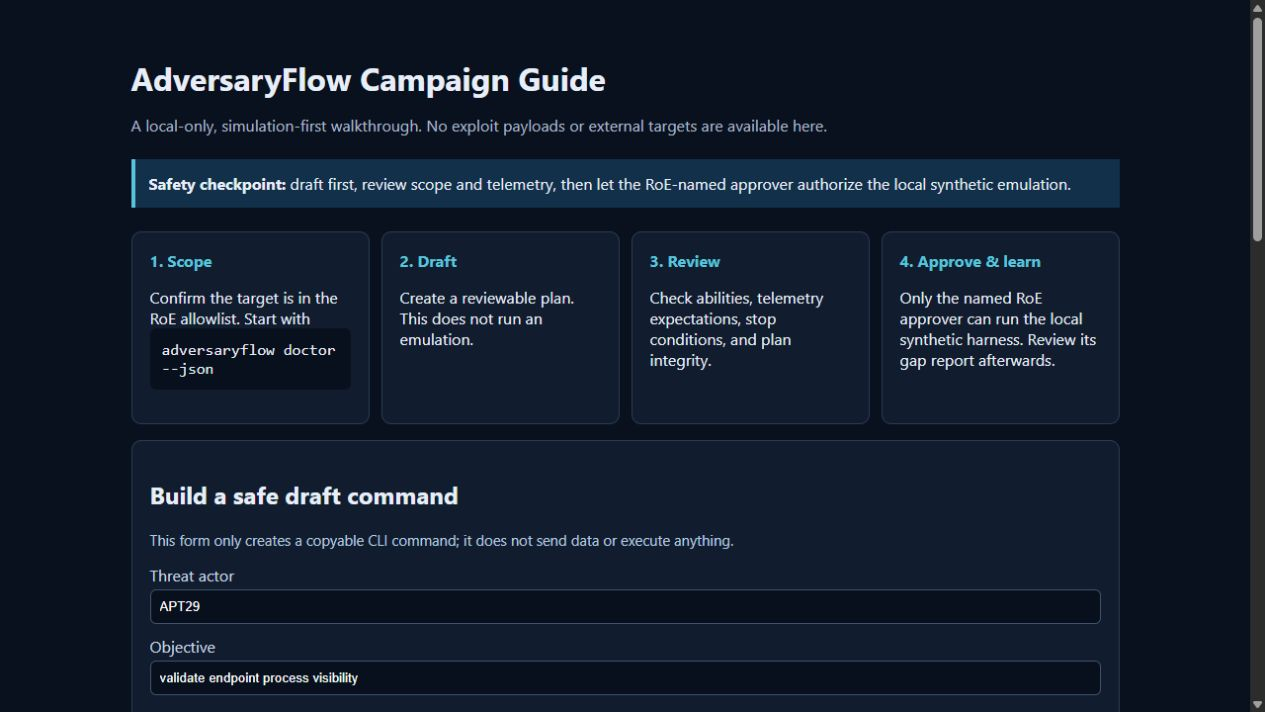
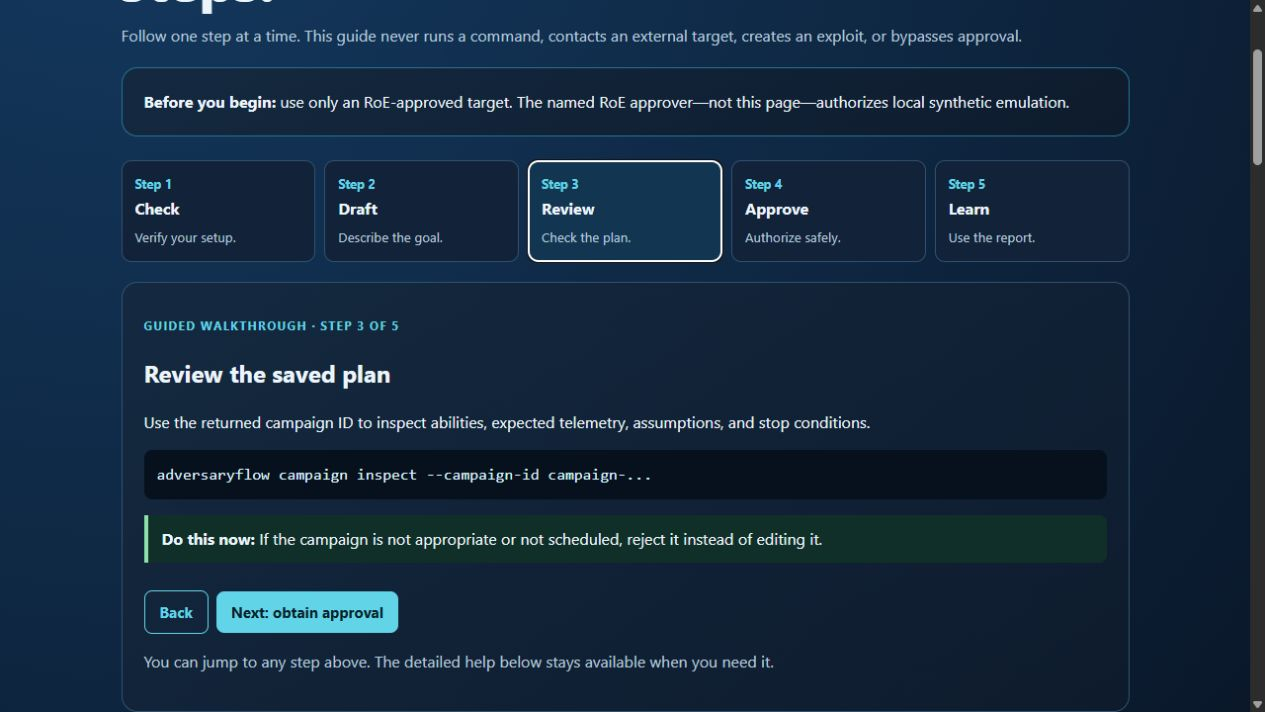
Add safe browser health check

diff --git a/src/adversaryflow/manager.py b/src/adversaryflow/manager.py
@@ -7,17 +7,27 @@ from http.server import BaseHTTPRequestHandler, ThreadingHTTPServer
 from pathlib import Path
 from urllib.parse import urlparse
 
+from .doctor import run_doctor
 from .lifecycle import inspect_campaign, list_campaigns
 
 
-PAGE = """<!doctype html><html lang="en"><head><meta charset="utf-8"><title>AdversaryFlow Campaign Guide</title>
-<style>body{margin:0;background:#09111e;color:#e8eef8;font:16px system-ui,sans-serif}main{max-width:1000px;margin:auto;padding:36px 20px}h1{margin-bottom:4px}.sub{color:#aab8cb}.banner{background:#12304a;border-left:4px solid #58c4dc;padding:14px;margin:24px 0}.steps{display:grid;grid-template-columns:repeat(auto-fit,minmax(210px,1fr));gap:12px}.card{background:#111d2e;border:1px solid #293b54;border-radius:10px;padding:18px}.num{color:#58c4dc;font-weight:bold}label{display:block;margin-top:12px;color:#c9d6e8}input{box-sizing:border-box;width:100%;padding:9px;margin-top:4px;background:#07101c;border:1px solid #40536c;border-radius:6px;color:#fff}button{margin-top:16px;background:#58c4dc;border:0;border-radius:6px;padding:10px 14px;font-weight:bold;cursor:pointer}code{display:block;white-space:pre-wrap;background:#07101c;padding:12px;border-radius:6px;overflow:auto}.help{color:#b6c8e0;font-size:.92rem}table{width:100%;border-collapse:collapse}th,td{text-align:left;padding:10px;border-bottom:1px solid #293b54}a{color:#75d9f1}</style></head><body><main>
-<h1>AdversaryFlow Campaign Guide</h1><p class="sub">A local-only, simulation-first walkthrough. No exploit payloads or external targets are available here.</p>
-<div class="banner"><strong>Safety checkpoint:</strong> draft first, review scope and telemetry, then let the RoE-named approver authorize the local synthetic emulation.</div>
-<section class="steps"><div class="card"><span class="num">1. Scope</span><p>Confirm the target is in the RoE allowlist. Start with <code>adversaryflow doctor --json</code></p></div><div class="card"><span class="num">2. Draft</span><p>Create a reviewable plan. This does not run an emulation.</p></div><div class="card"><span class="num">3. Review</span><p>Check abilities, telemetry expectations, stop conditions, and plan integrity.</p></div><div class="card"><span class="num">4. Approve & learn</span><p>Only the named RoE approver can run the local synthetic harness. Review its gap report afterwards.</p></div></section>
-<section class="card" style="margin-top:16px"><h2>Build a safe draft command</h2><p class="help">This form only creates a copyable CLI command; it does not send data or execute anything.</p><label>Threat actor<input id="actor" value="APT29"></label><label>Objective<input id="objective" value="validate endpoint process visibility"></label><label>Target<input id="target" value="local-lab"></label><button onclick="draft()">Create command</button><code id="command">Fill in the fields to generate a draft command.</code><button onclick="copyCommand()">Copy command</button><p class="help">After drafting, use the campaign ID shown by the CLI to inspect it here or resume it with <code>adversaryflow campaign --campaign-id campaign-... --approve --approver manager@example.test</code>.</p></section>
-<section class="card" style="margin-top:16px"><h2>Saved campaigns</h2><p class="help">Refreshes from this machine's configured campaign folder only.</p><button onclick="loadCampaigns()">Refresh campaigns</button><div id="campaigns">Loading…</div></section>
-</main><script>function q(id){return document.getElementById(id)}function draft(){q('command').textContent='adversaryflow campaign --actor "'+q('actor').value.replaceAll('"','')+'" --target "'+q('target').value.replaceAll('"','')+'" --objective "'+q('objective').value.replaceAll('"','')+'"'}function copyCommand(){navigator.clipboard.writeText(q('command').textContent)}async function loadCampaigns(){let r=await fetch('/api/campaigns'),d=await r.json();if(!d.campaigns.length){q('campaigns').textContent='No saved campaigns yet. Create a draft using the command above.';return}q('campaigns').innerHTML='<table><tr><th>ID</th><th>Status</th><th>Provider</th><th>Next step</th></tr>'+d.campaigns.map(c=>'<tr><td>'+c.campaign_id+'</td><td>'+c.status+'</td><td>'+c.provider+'</td><td>'+next(c)+'</td></tr>').join('')+'</table>'}function next(c){if(c.status==='awaiting-approval')return 'Review draft, then approve from the CLI.';if(c.status==='completed'){let link=c.report_url?'<a href="'+c.report_url+'">Open report</a> · ':'';return link+'Plan a retest from the detection gaps.'}return 'Inspect the recorded decision.'}loadCampaigns()</script></body></html>"""
+PAGE = """<!doctype html><html lang="en"><head><meta charset="utf-8"><meta name="viewport" content="width=device-width,initial-scale=1"><title>AdversaryFlow Campaign Guide</title><style>
+:root{color-scheme:dark;--bg:#08111f;--panel:#112239;--line:#31516e;--text:#edf5fc;--muted:#b8c9db;--accent:#62d4e8;--safe:#8de0ac}*{box-sizing:border-box}body{margin:0;background:radial-gradient(circle at 10% 0,#143a61 0,var(--bg) 40%);color:var(--text);font:16px/1.5 system-ui,sans-serif}main{max-width:1060px;margin:auto;padding:42px 20px 80px}h1{font-size:clamp(2.2rem,5vw,3.6rem);line-height:1.05;margin:.2rem 0}.eyebrow{color:var(--accent);font-weight:700;letter-spacing:.08em;text-transform:uppercase;font-size:.78rem}.lede,.muted{color:var(--muted)}.notice,.card{background:linear-gradient(145deg,#142940,#0e1b2d);border:1px solid var(--line);border-radius:16px;padding:22px;margin-top:20px}.notice{border-color:#277291}.journey{display:grid;grid-template-columns:repeat(5,1fr);gap:9px;margin-top:24px}.step{margin:0;padding:13px;background:var(--panel);border:1px solid var(--line);border-radius:10px;color:var(--text);font:inherit;text-align:left;cursor:pointer}.step:hover,.step[aria-current="step"]{border-color:var(--accent);background:#123552}.step b{display:block;color:var(--accent);font-size:.8rem}.step span{display:block;font-weight:750;margin:4px 0}.step small{color:var(--muted)}.layout{display:grid;grid-template-columns:1fr 1fr;gap:22px}.next{border-left:4px solid var(--safe);padding:12px 14px;background:#112f29;border-radius:0 8px 8px 0}code{display:block;white-space:pre-wrap;overflow:auto;background:#07111e;padding:13px;border-radius:8px;color:#d9f4fa}button{margin:12px 8px 0 0;padding:11px 15px;background:var(--accent);border:0;border-radius:8px;color:#06212a;font:700 15px system-ui;cursor:pointer}button.secondary{background:transparent;color:var(--accent);border:1px solid var(--accent)}button:disabled{opacity:.45;cursor:not-allowed}label{display:block;margin-top:12px;font-weight:650}input{width:100%;margin-top:4px;padding:11px;background:#07111e;color:var(--text);border:1px solid #41647f;border-radius:8px;font:inherit}details{border-top:1px solid var(--line);padding:12px 0}summary{cursor:pointer;font-weight:650}table{width:100%;border-collapse:collapse;font-size:.9rem}th,td{text-align:left;padding:10px 7px;border-bottom:1px solid var(--line);vertical-align:top}th{color:var(--muted)}a{color:var(--accent)}ul{padding-left:20px}@media(max-width:760px){main{padding-top:28px}.journey,.layout{grid-template-columns:1fr}.step{min-height:auto}table{display:block;overflow:auto}}
+</style></head><body><main>
+<p class="eyebrow">Local-only campaign workspace</p><h1>Start a safe campaign in five clear steps.</h1><p class="lede">Follow one step at a time. This guide can run explicitly allowlisted safe checks, but never contacts an external target, creates an exploit, or bypasses approval.</p><div class="notice"><strong>Before you begin:</strong> use only an RoE-approved target. The named RoE approver—not this page—authorizes local synthetic emulation.</div>
+<nav class="journey" aria-label="Campaign walkthrough"><button class="step" onclick="showStep(0)"><b>Step 1</b><span>Check</span><small>Verify your setup.</small></button><button class="step" onclick="showStep(1)"><b>Step 2</b><span>Draft</span><small>Describe the goal.</small></button><button class="step" onclick="showStep(2)"><b>Step 3</b><span>Review</span><small>Check the plan.</small></button><button class="step" onclick="showStep(3)"><b>Step 4</b><span>Approve</span><small>Authorize safely.</small></button><button class="step" onclick="showStep(4)"><b>Step 5</b><span>Learn</span><small>Use the report.</small></button></nav>
+<section class="card" id="walkthrough" aria-live="polite"><p class="eyebrow" id="guide-count">Guided walkthrough · step 1 of 5</p><h2 id="guide-title">Check your setup</h2><p id="guide-detail">Before creating a campaign, confirm the local environment, RoE, and safe ability catalog are healthy.</p><code id="guide-command">adversaryflow doctor --json</code><p class="next" id="guide-next"><strong>Do this now:</strong> Run the health check in your terminal. Continue only after it passes.</p><button id="run-safe-check" onclick="runDoctor()">Run health check here</button><button class="secondary" id="guide-back" onclick="moveStep(-1)">Back</button><button id="guide-forward" onclick="moveStep(1)">Next: create a draft</button><code id="safe-result" hidden></code><p class="muted">You can jump to any step above. The detailed help below stays available when you need it.</p></section>
+<section class="card" id="draft-helper"><h2>Create a reviewable draft</h2><p class="muted">Enter three details. The button creates a command to copy; it does not execute it.</p><div class="layout"><div><label>Threat actor<input id="actor" value="APT29"></label><label>Defensive objective<input id="objective" value="validate endpoint process visibility"></label><label>RoE-approved target<input id="target" value="local-lab"></label><button onclick="draft()">Create my draft command</button><button class="secondary" onclick="copyCommand()">Copy command</button></div><div><h3>Your safe next command</h3><code id="command">Enter your details, then choose “Create my draft command.”</code><p class="next" id="command-next"><strong>Then:</strong> Run the command in your terminal. It returns a campaign ID for review.</p></div></div></section>
+<section class="card"><h2>What happens after the draft?</h2><div class="layout"><div><h3>Review</h3><code>adversaryflow campaign inspect --campaign-id campaign-...</code><p class="muted">Check scope, selected abilities, telemetry, assumptions, and stop conditions. Use <code>campaign reject</code> if it should not proceed.</p></div><div><h3>Approve only when scheduled</h3><code>adversaryflow campaign --campaign-id campaign-... --approve --approver &lt;RoE-approver&gt;</code><p class="muted">Resuming verifies the saved draft, RoE, and ability catalog before the local simulation.</p></div></div></section>
+<section class="card"><h2>Saved campaigns</h2><p class="muted">Your local campaign records and their next actions.</p><button onclick="loadCampaigns()">Refresh campaign list</button><div id="campaigns" class="muted">Loading local campaigns…</div></section>
+<section class="card"><h2>Common questions</h2><details><summary>My setup is not ready.</summary><p>Run <code>adversaryflow doctor --fix --json</code>. It only creates local artifact folders, then explains remaining problems.</p></details><details><summary>My provider is unavailable.</summary><p>Run <code>adversaryflow provider diagnose</code>. Use <code>--fallback-offline</code> for a safe local rehearsal.</p></details><details><summary>I need to stop a draft.</summary><p>Run <code>adversaryflow campaign cancel --campaign-id campaign-... --reason "operator requested stop"</code>.</p></details><details><summary>I prefer the terminal.</summary><p>Run <code>adversaryflow guide --interactive</code> for the same step-by-step workflow.</p></details></section>
+</main><script>
+function q(id){return document.getElementById(id)}function clean(v){return v.replaceAll('"','')}
+const steps=[['Check your setup','Before creating a campaign, confirm the local environment, RoE, and safe ability catalog are healthy.','adversaryflow doctor --json','Run the health check in your terminal. Continue only after it passes.','Next: create a draft'],['Create a reviewable draft','Describe a defensive objective and an RoE-approved target. Drafting saves a plan for review; it does not run an emulation.','Use the draft helper below.','Fill in the three fields, copy the command, and run it in your terminal.','Next: review the draft'],['Review the saved plan','Use the returned campaign ID to inspect abilities, expected telemetry, assumptions, and stop conditions.','adversaryflow campaign inspect --campaign-id campaign-...','If the campaign is not appropriate or not scheduled, reject it instead of editing it.','Next: obtain approval'],['Obtain explicit approval','Only the approver named in the RoE can authorize the local synthetic emulation.','adversaryflow campaign --campaign-id campaign-... --approve --approver &lt;RoE-approver&gt;','Confirm schedule and scope, then run the approval command in your terminal.','Next: learn from results'],['Learn and retest','Open the completed report, review detection gaps, and create a new focused draft for any retest.','Open a report link in Saved campaigns.','Do not modify an approved campaign. Use the report to define a new defensive objective.','Finish walkthrough']];let currentStep=0;
+function showStep(index){currentStep=Math.max(0,Math.min(steps.length-1,index));let s=steps[currentStep];q('guide-count').textContent='Guided walkthrough · step '+(currentStep+1)+' of 5';q('guide-title').textContent=s[0];q('guide-detail').textContent=s[1];q('guide-command').textContent=s[2];q('guide-next').innerHTML='<strong>Do this now:</strong> '+s[3];q('guide-back').disabled=currentStep===0;q('guide-forward').textContent=s[4];q('run-safe-check').hidden=currentStep!==0;document.querySelectorAll('.step').forEach((el,i)=>el.setAttribute('aria-current',i===currentStep?'step':'false'));q('walkthrough').scrollIntoView({behavior:'smooth',block:'nearest'})}function moveStep(delta){showStep(currentStep+delta)}async function runDoctor(){let button=q('run-safe-check'),output=q('safe-result');button.disabled=true;button.textContent='Checking…';let response=await fetch('/api/doctor',{method:'POST'}),result=await response.json();output.hidden=false;output.textContent=JSON.stringify(result,null,2);button.textContent=result.passed?'Health check passed':'Health check needs attention';q('guide-next').innerHTML=result.passed?'<strong>Ready:</strong> Your local checks passed. Continue to create a draft.':'<strong>Pause:</strong> Review the failed checks and follow their remediation before creating a draft.';button.disabled=false}
+function draft(){q('command').textContent='adversaryflow campaign --actor "'+clean(q('actor').value)+'" --target "'+clean(q('target').value)+'" --objective "'+clean(q('objective').value)+'"';q('command-next').innerHTML='<strong>Then:</strong> Run this command in your terminal. It creates a draft only; inspect the returned campaign ID before approval.';showStep(2)}function copyCommand(){navigator.clipboard.writeText(q('command').textContent);q('command-next').innerHTML='<strong>Copied:</strong> Paste the command into your terminal when you are ready to create a draft.'}
+async function loadCampaigns(){let r=await fetch('/api/campaigns'),d=await r.json();if(!d.campaigns.length){q('campaigns').textContent='No saved campaigns yet. Create a draft after you complete step 1.';return}q('campaigns').innerHTML='<table><tr><th>Campaign</th><th>Status</th><th>Provider</th><th>What to do next</th></tr>'+d.campaigns.map(c=>'<tr><td>'+c.campaign_id+'</td><td>'+c.status+'</td><td>'+c.provider+'</td><td>'+next(c)+'</td></tr>').join('')+'</table>'}function next(c){if(c.status==='awaiting-approval')return 'Inspect the draft. Approve only when the RoE approver confirms the schedule.';if(c.status==='completed'){let link=c.report_url?'<a href="'+c.report_url+'">Open report</a> · ':'';return link+'Use detection gaps to define a new retest objective.'}if(c.status==='cancelled')return 'The stop request is recorded. Inspect the campaign before deciding whether to create a new draft.';return 'Inspect the recorded decision and create a new draft only if the scope changes.'}showStep(0);loadCampaigns()
+</script></body></html>"""
 
 
 def make_handler(campaign_root: str):
@@ -58,6 +68,12 @@ def make_handler(campaign_root: str):
                         self._send(404, {"error": "not found"})
                 except (OSError, ValueError) as exc:
                     self._send(404, {"error": str(exc)})
+            else:
+                self._send(404, {"error": "not found"})
+
+        def do_POST(self) -> None:  # noqa: N802
+            if urlparse(self.path).path == "/api/doctor":
+                self._send(200, run_doctor())
             else:
                 self._send(404, {"error": "not found"})
 

diff --git a/tests/test_profiles_manager.py b/tests/test_profiles_manager.py
@@ -50,7 +50,8 @@ def test_manager_health_and_campaign_listing():
         assert campaigns["campaigns"] == []
         page = urllib.request.urlopen(base + "/").read().decode()
         assert "Campaign Guide" in page
-        assert "Build a safe draft command" in page
+        assert "Start a safe campaign in five clear steps" in page
+        assert "Create my draft command" in page
         with pytest.raises(HTTPError) as missing_campaign:
             urllib.request.urlopen(base + "/api/campaigns/campaign-missing")
         assert missing_campaign.value.code == 404
@@ -58,6 +59,12 @@ def test_manager_health_and_campaign_listing():
         with pytest.raises(HTTPError) as unknown_route:
             urllib.request.urlopen(base + "/not-a-route")
         assert unknown_route.value.code == 404
+        request = urllib.request.Request(base + "/api/doctor", method="POST")
+        doctor = json.loads(urllib.request.urlopen(request).read())
+        assert doctor["passed"] is True
+        with pytest.raises(HTTPError) as unsupported_post:
+            urllib.request.urlopen(urllib.request.Request(base + "/api/not-allowed", method="POST"))
+        assert unsupported_post.value.code == 404
     finally:
         server.shutdown()
         thread.join(timeout=2)

diff --git a/README.md b/README.md
@@ -102,7 +102,7 @@ Completed campaigns also produce `campaign-report.md` and `campaign-report.html`
 
 ## Guided local campaign workspace
 
-Run `adversaryflow manager --open` to launch a loopback-only browser workspace. It explains the safe campaign stages, generates copyable draft commands, lists locally saved campaigns, and provides context-sensitive next steps. The workspace does not execute commands or expose any non-loopback service; approval and emulation remain explicit CLI operations gated by the RoE.
+Run `adversaryflow manager --open` to launch a loopback-only browser workspace. Start with the five-step walkthrough at the top; select any step to see one clear command, explanation, and next action at a time. The workspace can run the allowlisted, local `doctor` health check and display its result. It also generates copyable draft commands, lists locally saved campaigns, and provides context-sensitive help. It does not provide an arbitrary command runner or expose any non-loopback service; approval and emulation remain explicit CLI operations gated by the RoE.
 
 ![Campaign Guide quick start](docs/assets/campaign-guide.png)
 
